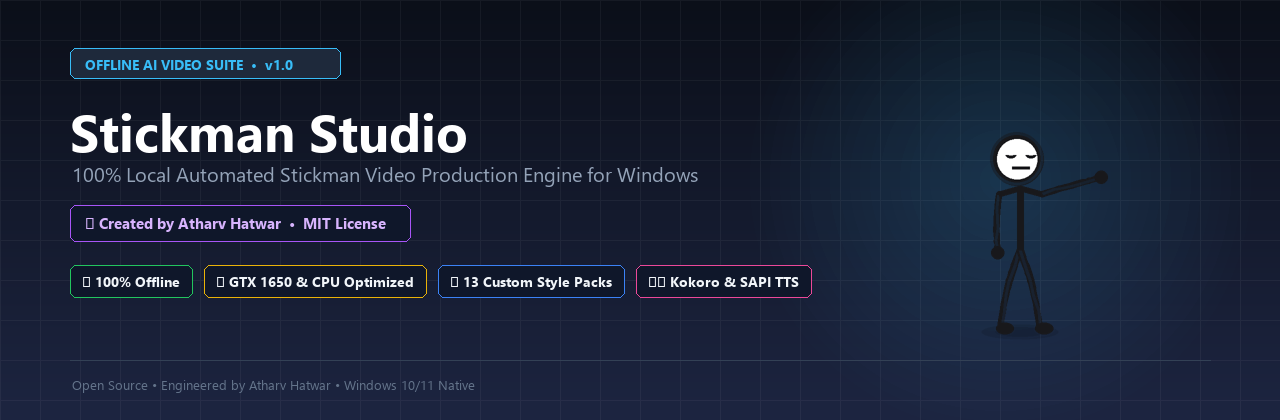
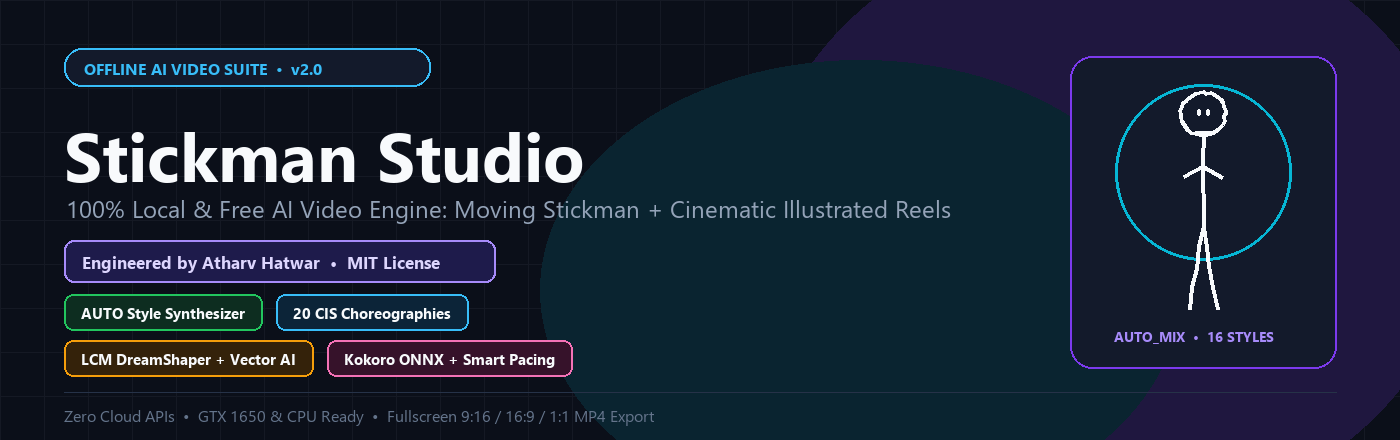
Minor Changes

diff --git a/README.md b/README.md
@@ -3,13 +3,13 @@
 </p>
 
 <p align="center">
-  <a href="https://github.com/atharv01h"><img src="https://img.shields.io/badge/Creator-Atharv%20Hatwar-8A2BE2.svg?style=for-the-badge&logo=github" alt="Creator: Atharv Hatwar"></a>
+  <a href="https://github.com/atharv01h"><img src="https://img.shields.io/badge/Creator-Atharv%20Hatwar-7C3AED.svg?style=for-the-badge&logo=github" alt="Creator: Atharv Hatwar"></a>
   <a href="https://github.com/atharv01h/Stickman-Studio"><img src="https://img.shields.io/badge/Repository-Stickman--Studio-0078D6.svg?style=for-the-badge&logo=github" alt="Repository: Stickman-Studio"></a>
   <img src="https://img.shields.io/badge/License-MIT-blue.svg?style=for-the-badge" alt="License: MIT">
   <img src="https://img.shields.io/badge/Python-3.11%20%7C%203.12-3776AB.svg?style=for-the-badge&logo=python&logoColor=white" alt="Python 3.11+">
   <img src="https://img.shields.io/badge/Platform-Windows%2010%20%7C%2011-0078D6.svg?style=for-the-badge&logo=windows&logoColor=white" alt="Windows 10 / 11">
-  <img src="https://img.shields.io/badge/Privacy-100%25%20Offline-success.svg?style=for-the-badge" alt="100% Offline">
-  <img src="https://img.shields.io/badge/Hardware-4GB%20VRAM%20%7C%208GB%20RAM-orange.svg?style=for-the-badge&logo=nvidia" alt="GTX 1650 Ready">
+  <img src="https://img.shields.io/badge/Privacy-100%25%20Offline-22C55E.svg?style=for-the-badge" alt="100% Offline">
+  <img src="https://img.shields.io/badge/Zero_Cloud-100%25_Free-06B6D4.svg?style=for-the-badge" alt="100% Free & Offline">
 </p>
 
 ---
@@ -17,64 +17,86 @@
 # 🎬 Stickman Studio
 
 > **Designed and Engineered by [Atharv Hatwar](https://github.com/atharv01h)**  
-> An autonomous, 100% local, offline AI video production suite for Windows. Turn any topic or script into a fully animated, professionally narrated, kinetic stickman reel or film in minutes — with zero paid cloud APIs, zero subscriptions, and 100% local privacy.
+> An autonomous, **100% local, free, offline AI video production suite** for Windows. Turn any topic or narration script into a dynamic, voiced, full-screen animated reel or explainer film — **Moving Stickman** or **Cinematic Illustrated Reels** — with zero paid APIs, zero subscriptions, and full privacy.
 
 ---
 
-## 🌟 Overview
+## 🌟 Studio Interface Overview
 
-**Stickman Studio** brings studio-grade animated video production straight to consumer hardware. Built specifically to run smoothly on standard laptops and desktops (such as an AMD Ryzen 5 with an NVIDIA GTX 1650 and 8 GB RAM — or CPU-only systems), it combines **two complete animation modes** (`Moving Stickman` & `Cinematic Illustrated Stickman`), a script-aware AI Director, procedural vector & diffusion backgrounds, offline Kokoro ONNX neural voice acting, procedural sound design, and FFmpeg encoding inside a fast dark **Obsidian-Studio** desktop app.
+Stickman Studio runs inside a sleek, non-blocking **Obsidian-Studio PySide6 UI** built for fast startup (`< 1s`), smooth tab switching, live style card previews rendered asynchronously, and instant two-way engine controls:
 
 <p align="center">
-  <img src="docs/images/sample_scene.png" alt="Sample Scene Render" width="90%">
+  <img src="docs/images/ui_studio.png" alt="Stickman Studio Obsidian Dark UI" width="95%">
 </p>
 
 ---
 
 ## ✨ Key Highlights
 
-- 🔒 **100% Free, Local & Offline**: Zero cloud reliance and zero paid APIs. Uses local Kokoro ONNX / Windows SAPI TTS, local procedural vector graphics, optional local Ollama models, and optional local `SimianLuo/LCM_Dreamshaper_v7` diffusion.
-- 🎬 **Dual Production Modes**:
-  - **Mode 1 — Moving Stickman Studio**: Kinetic joint-animated stickmen with 3-phase acting kinematics, blinking, eye-tracking, dynamic props, camera moves, and **16 Visual Style Options** led by the flagship **`AUTO • AI Script Studio (Best)`** synthesizer.
-  - **Mode 2 — Cinematic Illustrated Stickman (CIS)**: Full-screen animated illustration reels built for psychology, storytelling, self-improvement, and relationship scripts across **20 script-matched choreographies**, **6 dynamic layout architectures**, and **per-shot mixed canvas themes (`AUTO_MIX`, `B1`, `B2`, `B3`)**.
-- ✨ **Flagship `AUTO` Style Synthesizer**:
-  - Dynamically mixes existing style packs per scene **and** synthesizes bespoke hybrid color palettes, lighting, and camera rhythms (such as *Obsidian Amber Chalk*, *Warm Kraft Editorial*, *Midnight Blueprint Neon*, *Sage Minimalist Ink*, and *Velvet Violet Noir*) matched directly to your script's meaning and emotional beat.
-- 🧠 **True Script-to-Visual Precision (20 Choreographies + 12 Semantic Props)**:
-  - Recognizes real story motifs (`give_and_withdraw`, `boundary_shield`, `tether_break`, `mind_storm_calm`, `idea_spark_build`, `two_path_fork`, `mirror_truth`, `domino_chain`, `iceberg_depth`, `rocket_breakthrough`, `spotlight_reveal`, etc.) and draws matching semantic props (`heart`, `shield`, `coin`, `book`, `clock`, `lightning`, `brain`, `key`, `crown`, `phone`, `spark`) so reels never repeat the same template.
-- 🎨 **Dual Background Engine (`Procedural Vector AI` & `LCM DreamShaper`)**:
-  - Works seamlessly across **both Mode 1 and CIS Mode 2** (with synchronized UI selectors): choose instant zero-GPU procedural backdrops or local 4-step `LCM_Dreamshaper_v7` diffusion scenic backdrops (`9:16`, `16:9`, `1:1`).
-- 🎚 **Smart Auto Voice Speed & Optional Ending Follow/CTA Screen**:
-  - Automatically calibrates narration speaking pace (`compute_auto_voice_speed` + measured refinement) to match script length and video duration, and optionally generates a custom animated ending **Follow / Subscribe CTA screen** with bespoke closing voiceover (`"Follow this page"`, `"Follow me"`, `"Save & Follow"`, or custom text).
-- ⚡ **Fast, Non-Blocking Obsidian-Studio UI**:
-  - Asynchronous style thumbnail rendering (`QThread`), off-thread Ollama status probing, debounced script metrics, and clean batched list updates keep startup under 1 second with smooth navigation.
-- 🔊 **Built-In Sound Design & Fullscreen Encoding**:
-  - Procedural DSP ambient scores and SFX (`pop`, `whoosh`, `impact`, `success`) with sidechain ducking, full-screen `9:16` / `16:9` / `1:1` output, and hardware NVENC or x264 H.264 export.
+| Feature | What It Does |
+|---|---|
+| 🔒 **100% Free & Offline** | Zero cloud APIs or recurring keys. Powered by local **Kokoro ONNX / SAPI TTS**, procedural vector engines, optional local **Ollama**, and optional local **`LCM_Dreamshaper_v7`**. |
+| 🎭 **Dual Animation Modes** | Switch seamlessly between **Mode 1: Moving Stickman** (full joint kinematics & 2.5D rooms) and **Mode 2: Cinematic Illustrated Reels** (`CISPipeline` multi-sprite & canvas reels). |
+| ✨ **Flagship `AUTO` Style Synthesizer** | Default **`AUTO • AI Script Studio (Best)`** dynamically mixes styles per beat **and** invents bespoke hybrid palettes & lighting (*Obsidian Amber Chalk*, *Velvet Violet Noir*, *Warm Kraft Editorial*, etc.). |
+| 🧠 **20 Script-Matched Choreographies** | Semantic planner maps your script clauses directly into story metaphors (`give_and_withdraw`, `boundary_shield`, `tether_break`, `mind_storm_calm`, `two_path_fork`, `domino_chain`, etc.) with 12 custom props. |
+| 🎨 **Dual Background AI (`Procedural` vs. `LCM`)** | Choose **Procedural Vector AI** (instant CPU speed) or **Local Diffusion (`LCM DreamShaper`)** across **both** Moving Stickman & CIS Mode 2 with synchronized controls. |
+| 🎙 **Smart Auto Voice Speed & CTA Screen** | Auto-calibrates TTS pacing to fit duration naturally (`compute_auto_voice_speed` + refinement) and optionally appends a custom animated **Ending `+ FOLLOW` / CTA Screen** with spoken outreach. |
+| ⚡ **Fast Non-Blocking Desktop Engine** | Background `QThread` card rendering, off-thread Ollama discovery, debounced script counting, and GPU NVENC or x264 H.264 export in `9:16`, `16:9`, or `1:1`. |
 
 ---
 
-## 🎭 Dual Generation Modes
+## 🎭 Dual Production Modes in Action
 
-### Mode 1: Moving Stickman (`SceneComposer`)
-- Full procedural 2x supersampled stickman acting, prop handoffs, facial expressions, blinking, and camera choreography (`PUNCH_IN`, `SLOW_ZOOM_IN`, `PAN_RIGHT`, `WIDE`).
-- Interactive **16-Card Visual Style Gallery** (`auto` hero card + `s1`–`s15` style packs).
-
-### Mode 2: Cinematic Illustrated Stickman (`CISPipeline`)
-- Storyboarded specifically around script clauses (`balanced`, `detailed`, or `compact` pacing) into:
-  - **20 Distinct Choreographies**: `give_and_withdraw`, `boundary_shield`, `tether_break`, `mind_storm_calm`, `idea_spark_build`, `two_path_fork`, `question_burst`, `balance_scale`, `spotlight_reveal`, `split_myth_reality`, `rocket_breakthrough`, `crowd_filter`, `loop_escape`, `iceberg_depth`, `domino_chain`, `bridge_cross`, `magnet_orbit`, `clock_sprint`, `stair_climb`, `cta_celebration`.
-  - **6 Layout Architectures**: `clean_stage`, `big_typo_banner`, `split_screen`, `comic_beats`, `floating_callout`, `editorial_spread`.
-  - **Visual Canvas Options**: `auto` (`AUTO_MIX` — alternates warm craft paper, sage paper, blueprint grid, dark obsidian neon, and charcoal themes per beat), `B1` (Whiteboard Grid Paper), `B2` (Tinted Card Editorial), and `B3` (Dark Chalkboard Neon).
-  - **Illustration / Background Engines**: `Hand-Drawn B1 (Procedural Vector AI)` or `Local Diffusion (LCM DreamShaper)`.
-  - **Custom Ending CTA Screen**: Optional interactive `+ FOLLOW` / `+ SUBSCRIBE` / `BOOKMARK & FOLLOW` closing card with animated cursor tap, bell ring, and custom spoken audio.
-
----
-
-## 🎨 Visual Style Showcase (Mode 1)
-
-Stickman Studio includes **16 Style Selections** (`auto` AI Script Studio + 15 handcrafted style packs `S1`–`S15`):
+### 1. Mode 2 — Cinematic Illustrated Stickman Reels (`CISPipeline`)
+Designed for psychology, mindset, storytelling, and viral short-form reels — every scene selects its matching choreography, layout architecture, prop visual, and `AUTO_MIX` canvas backdrop:
 
 <p align="center">
-  <img src="docs/images/styles_grid.png" alt="Styles Showcase Grid" width="90%">
+  <img src="docs/images/cis_choreographies_showcase.png" alt="CIS Mode 2 Choreographies & Ending CTA Showcase" width="95%">
 </p>
+
+- **Canvas Styles (`Visual World & Style`)**:
+  - `✨ Auto (Mix + Custom Styles)` (`AUTO_MIX` — alternates craft paper, sage canvas, blueprint grid, obsidian neon, and charcoal themes per beat)
+  - `📒 Sketchbook Paper (B1 Grid)` · `🎨 Clean Editorial (B2 Tinted)` · `🌌 Dark Chalkboard (B3 Neon)`
+- **6 Layout Architectures**: `clean_stage`, `big_typo_banner`, `split_screen`, `comic_beats`, `floating_callout`, `editorial_spread`.
+- **Optional Ending Follow / CTA Screen**: Configurable button presets (`+ FOLLOW`, `+ SUBSCRIBE`, `BOOKMARK & FOLLOW`), on-screen headline, cursor tap animation, ringing bell, and custom voiceover.
+
+<details>
+<summary><b>Click to view all 20 CIS Choreographies & 12 Semantic Props</b></summary>
+
+- **20 Choreographies**: `give_and_withdraw`, `boundary_shield`, `tether_break`, `mind_storm_calm`, `idea_spark_build`, `two_path_fork`, `question_burst`, `balance_scale`, `spotlight_reveal`, `split_myth_reality`, `rocket_breakthrough`, `crowd_filter`, `loop_escape`, `iceberg_depth`, `domino_chain`, `bridge_cross`, `magnet_orbit`, `clock_sprint`, `stair_climb`, `cta_celebration`.
+- **12 Semantic Props**: `heart`, `coin`, `book`, `shield`, `clock`, `lightning`, `brain`, `key`, `crown`, `phone`, `spark`, `default_card`.
+
+</details>
+
+---
+
+### 2. Dual Background AI: Procedural Vector AI vs. Local `LCM DreamShaper`
+
+Switch effortlessly between lightning-fast **Procedural Vector AI** and locally cached **`SimianLuo/LCM_Dreamshaper_v7`** diffusion backdrops — both **Background AI** and **Illustration Engine** controls stay synchronized automatically:
+
+<p align="center">
+  <img src="docs/images/lcm_vs_procedural.png" alt="Procedural Vector AI vs LCM DreamShaper Diffusion Comparison" width="95%">
+</p>
+
+> [!TIP]
+> On systems with limited VRAM or CPU-only setups, `LCM DreamShaper` caches every generated scene backdrop locally and automatically unloads model weights from memory once illustration finishes so TTS and video encoding run at full speed.
+
+---
+
+### 3. Mode 1 — Moving Stickman (`SceneComposer`) & `AUTO` Style Synthesizer
+
+Full procedural 2x supersampled stickman acting, prop handoffs, facial expressions, eye tracking, blinking, camera motion, and **`AUTO` Scene Style Synthesis**:
+
+<p align="center">
+  <img src="docs/images/auto_styles_showcase.png" alt="Mode 1 AUTO Style Synthesizer Multi-Beat Render" width="95%">
+</p>
+
+<p align="center">
+  <img src="docs/images/sample_scene.png" alt="Moving Stickman 2.5D Scene Render" width="90%">
+</p>
+
+<details>
+<summary><b>Click to view all 16 Visual Styles in Mode 1 (`auto` + S1–S15)</b></summary>
 
 | ID | Style Name | Description |
 |---|---|---|
@@ -95,6 +117,8 @@ Stickman Studio includes **16 Style Selections** (`auto` AI Script Studio + 15 h
 | `s14_chameleon_adaptive` | **S14 Chameleon Dynamic** | Adaptive scene-by-scene selection across classic packs by mood |
 | `s15_minimalist_accent` | **S15 Minimalist Ink & Accent** | High-impact distraction-free ink & single bold accent storytelling |
 
+</details>
+
 ---
 
 ## 🏛 System Architecture
@@ -106,8 +130,8 @@ Stickman Studio includes **16 Style Selections** (`auto` AI Script Studio + 15 h
             ┌──────────────────────────────────┴──────────────────────────────────┐
             ▼                                                                     ▼
    [ Moving Stickman Mode ]                                        [ Cinematic Illustrated Mode ]
- • Style Synthesizer (`auto`, S1–S15)                            • Semantic Storyboarder (20 Choreos)
- • 3-Phase Joint Kinematics                                      • Multi-Sprite & Prop Animator
+ • AUTO Style Synthesizer + S1–S15                               • Semantic Storyboarder (20 Choreos)
+ • 3-Phase Joint Kinematics                                      • Multi-Sprite & Semantic Prop Animator
  • Procedural Rooms & LCM Diffusion                              • AUTO_MIX / B1 / B2 / B3 + LCM Diffusion
             │                                                                     │
             └──────────────────────────────────┬──────────────────────────────────┘
@@ -154,48 +178,38 @@ cd Stickman-Studio
 
 ### 2. One-Click Setup (Run Once with Internet)
 
-Run the automated installer script to download the local dependencies:
+Run the automated installer script to configure local packages and binaries:
 
 ```batch
 setup_windows.bat
 ```
 
-This script will automatically configure:
-- Essential Python packages (`PySide6`, `Pillow`, `numpy`, `soundfile`, `requests`)
-- FFmpeg video encoding binary
-- Embedded In-Process AI Director (Native Python, zero external daemons required)
-- Kokoro ONNX offline neural TTS model
+This configures:
+- Core Python packages (`PySide6`, `Pillow`, `numpy`, `soundfile`, `requests`)
+- Local FFmpeg video encoding binary
+- In-process scene planner & offline Kokoro ONNX neural TTS model
 
-> **Note**: Once setup finishes and optional local models (`Kokoro`, `LCM_Dreamshaper_v7`) are cached, you can completely disconnect your internet connection. Everything runs 100% offline.
+> [!NOTE]
+> Once setup completes and local models (`Kokoro ONNX`, optional `LCM_Dreamshaper_v7`) are cached, you can disconnect from the internet completely — everything runs 100% offline.
 
-### 3. Launch the Studio
-
-Double-click `run.bat` or run:
-
-```bash
-python main.py
-```
-
-### 4. Diagnostic Health Check
-
-Verify your system's offline components, GPU acceleration status, and libraries at any time:
+### 3. Launch & Health Check
 
 ```batch
-health_check.bat
+run.bat          :: Launch GUI (or run: python main.py)
+health_check.bat :: Verify dependencies, FFmpeg & GPU status
 ```
 
 ---
 
 ## 🎬 How to Generate Your First Video
 
-1. **Launch**: Open the application via `run.bat` or `python main.py`.
-2. **Choose Mode**: Pick **Moving Stickman** or **✦ Cinematic Illustrated** at the top of the studio panel.
-3. **Input Topic & Script**: Type your topic and paste your script (or choose AI auto-generate / improve).
-4. **Pick Visual Style & Background AI**:
-   - Leave **Animation Style** on **`AUTO • AI Script Studio (Best)`** (or pick any custom style card / `B1`–`B3` canvas in CIS mode).
-   - Select **Procedural Vector AI** (instant CPU) or **LCM DreamShaper AI** (local diffusion scenic backdrops).
-5. **Voice, Pacing & Ending CTA**: Pick a Kokoro ONNX narrator voice, keep **Auto Voice Speed** enabled, and optionally toggle **Ending Follow / CTA Screen**.
-6. **Generate & Preview**: Click **Generate Video** (or **Generate Illustrated Video**), then watch and export directly from the built-in Preview tab or `output/` folder.
+1. **Choose Production Mode**: Select **Moving Stickman** or **✦ Cinematic Illustrated** at the top left.
+2. **Enter Topic & Script**: Type a topic and paste your script (or pick **Auto-Generate** / **Improve**).
+3. **Select Style & Background AI**:
+   - Keep **`AUTO • AI Script Studio (Best)`** / **`✨ Auto (Mix + Custom Styles)`** selected for dynamic script-matched variety.
+   - Pick **Procedural Vector AI** (instant) or **LCM DreamShaper AI** (local diffusion scenic backdrops).
+4. **Voice Speed & Ending CTA**: Keep **Voice Speed: Auto (Smart Fit)** enabled and optionally toggle **Ending Follow / CTA Screen** with your handle/call-to-action.
+5. **Generate & Export**: Click **Generate Video** (or **Generate Illustrated Video**), preview right inside the **Preview & Export** tab, or find your rendered MP4 inside `output/`.
 
 ---
 
@@ -206,7 +220,14 @@ Stickman-Studio/
 ├── assets/
 │   └── fonts/                         # Bundled Caveat & NotoSans typography + OFL licenses
 ├── docs/
-│   └── images/                        # Visual previews and showcase frames
+│   └── images/                        # Banner, UI screenshots & rendered feature showcases
+│       ├── banner.png
+│       ├── ui_studio.png
+│       ├── cis_choreographies_showcase.png
+│       ├── lcm_vs_procedural.png
+│       ├── auto_styles_showcase.png
+│       ├── sample_scene.png
+│       └── styles_grid.png
 ├── src/
 │   ├── animation/                     # Moving Stickman kinematics, props, & compositor
 │   │   ├── assets.py                  # Procedural vector props & cache-keyed backgrounds
@@ -254,9 +275,9 @@ Stickman-Studio/
   pip install torch torchvision --index-url https://download.pytorch.org/whl/cu121
   ```
 - **NVENC Hardware Encoding**:
-  In **Settings → Performance**, ensure **NVIDIA Hardware Acceleration (NVENC)** is checked. This offloads video rendering to the GTX 1650 encoder chip, rendering 1080p video in a fraction of the time.
+  In **Settings → Performance**, ensure **NVIDIA Hardware Acceleration (NVENC)** is checked to offload H.264 video encoding to your GPU.
 - **Memory Management**:
-  Both the LLM and LCM DreamShaper pipeline automatically unload after their stage completes to preserve RAM/VRAM for TTS synthesis and video encoding.
+  Both the Ollama LLM and LCM DreamShaper pipeline automatically unload after their stage completes to free RAM/VRAM for TTS synthesis and video encoding.
 
 ---
 
